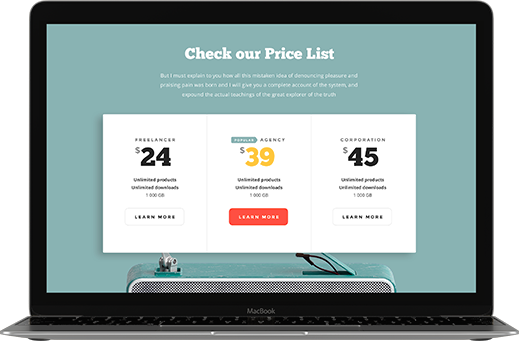
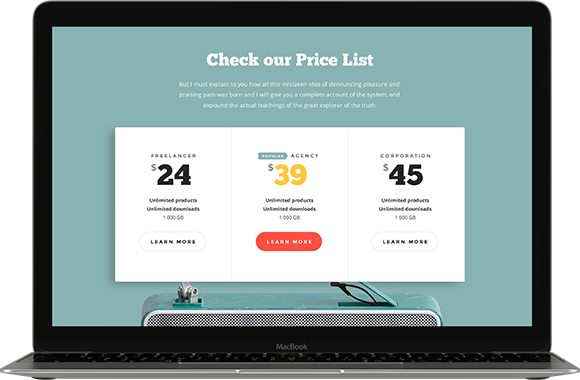
+fonts + css for more sections

diff --git a/src/less/index.less b/src/less/index.less
@@ -1,3 +1,20 @@
+@font-face {
+	font-family: 'Nissan Brand';
+	src: url('../fonts/NissanBrand-Regular.ttf') format('truetype');
+}
+
+@font-face {
+	font-family: 'Nissan Brand';
+	font-weight: 700;
+	src: url('../fonts/NissanBrand-Bold.ttf') format('truetype');
+}
+
+@font-face {
+	font-family: 'Nissan Brand - Bold';
+	font-weight: 700;
+	src: url('../fonts/NissanBrand-Bold.ttf') format('truetype');
+}
+
 @xl: ~'(max-width: 1200px)';
 @lg: ~'(max-width: 992px)';
 @md: ~'(max-width: 768px)';
@@ -27,10 +44,8 @@
 	flex-direction: column;
 }
 
-*::before,
-*::after {
-	// fixed css min
-	// all: unset;
+::before,
+::after {
 	box-sizing: border-box;
 }
 
@@ -55,7 +70,7 @@ button,
 p,
 span {
 	display: inline-block;
-	hyphens: auto;
+	// hyphens: auto;
 }
 
 main {
@@ -104,6 +119,7 @@ body > header {
 				
 				&::after {
 					content: '•';
+					color: #4591da;
 					padding-right: 14rem;
 					padding-left: 14rem;
 				}
@@ -139,7 +155,7 @@ h2 {
 h3 {
 	color: #343e46;
 	font-family: "Nissan Brand";
-	font-size: 30rem;
+	font-size: 29rem;
 	font-weight: 700;
 	text-transform: uppercase;
 	margin-bottom: 35rem;
@@ -148,15 +164,16 @@ h3 {
 .btn {
 	max-width: 390rem;
 	width: 100%;
-	// align-self: flex-start;
 	align-items: center;
 	text-align: center;
 	justify-content: center;
 	padding: 25rem;
+	border-radius: 10px;
+	
 	color: white;
 	font-size: 20rem;
+	font-weight: 700;
 	text-transform: uppercase;
-	border-radius: 10px;
 	background-image: linear-gradient(to top, #b10028, #f00030);
 	box-shadow: 2px 2px 7px rgba(0, 0, 0, .35);
 	
@@ -175,9 +192,15 @@ section.top {
 	padding-top: 60rem;
 	padding-bottom: 80rem;
 	color: white;
+	
 	background-color: @bg;
 	background-image: url(../img/top.png);
 	background-size: cover;
+
+	p {
+		font-size: 24rem;
+		line-height: 1.5em;
+	}
 	
 	h2 {
 		align-self: flex-start;
@@ -243,9 +266,10 @@ blockquote {
 			flex-shrink: 0;
 		}
 		.description {
-			padding: 25rem;
+			padding: 30rem 20rem 20rem 30rem;
 			background-color: #ecf1f5;
 			font-size: 18rem;
+			flex-shrink: 1;
 			
 			p {
 				margin-bottom: 0;
@@ -334,6 +358,7 @@ ol {
 
 section.for {
 	padding-top: 80rem;
+	padding-bottom: 95rem;
 	
 	ul {
 		margin-bottom: 60rem;
@@ -355,11 +380,12 @@ section.for {
 
 .btn-2 {
 	.btn;
-	background: #0068e3;
+	background-image: linear-gradient(to top, rgba(#0867d7, 1), rgba(#0575fa, 1));
 	align-self: center;
 	
 	&:hover {
-		background: rgba(#1174e8, 0.91);
+		background-image: linear-gradient(to top, rgba(#0575fa, 1), rgba(#0867d7, 1));
+
 	}
 }
 
@@ -406,15 +432,34 @@ section.pricelist {
 	}
 }
 
-.features {
-	li {
-		margin-bottom: 15rem;
-		
+section.features {
+	padding-top: 100rem;
+	padding-bottom: 120rem;
+	background-color: #f1f1f3;
+
+	.block {
+		margin-bottom: 150rem;
 	}
-	li:nth-child(even) .item {
+
+	.video {
+		// box-shadow: 0 100px 150px -50px black;
+		filter: drop-shadow(-50px 150px 50px rgba(0,0,0,.2));
+	}
+	
+	li {
+		color: #0068e3;
+		margin-bottom: 15rem;
+
+		&:last-child .item {
+			text-decoration: underline;
+		}
+	}
+	
+	.blue.item {
 		color: white;
 		background-color: #095aba;
 	}
+	
 	.item {
 		height: 100%;
 		padding: 30rem;

diff --git a/src/index.html b/src/index.html
@@ -144,16 +144,18 @@
 		<section class='features'>
 			<div class='container'>
 				<div class='row'>
-					<div class='col-xl-6'>
-						<span>
+					<div class='block col-xl-6'>
+						<span	style='color: #343e46;font-family: &#34;Nissan Brand&#34;; font-size: 29rem; font-weight: 400; line-height: 35rem;margin-bottom: 50rem;'>
 							Трехмесячный <br /> практический курс
 						</span>
-						<span>On-line обучение.</span>
-						<span>Личный финансовый консультант</span>
+						<h2>
+							<span style='color: #0068e3;'>On-line обучение.</span>
+							Личный финансовый консультант
+						</h2>
 						<a href='' class='btn'>Получить доступ</a>
 					</div>
 					
-					<div class='col-xl-6'>
+					<div class='block video col-xl-6'>
 						<img src='' alt='img' />
 					</div>
 				</div>
@@ -168,7 +170,7 @@
 						</div>
 					</li>
 					<li class='col-xl-3 col-lg-4 col-md-6'>
-						<div class='item'>
+						<div class='item blue'>
 							<img src='img/f2.png' alt='icon' />
 							Презентации
 							для проведения
@@ -183,7 +185,7 @@
 						</div>
 					</li>
 					<li class='col-xl-3 col-lg-4 col-md-6'>
-						<div class='item'>
+						<div class='item blue'>
 							<img src='img/f4.png' alt='icon' />
 							Описания всех
 							финансовых
@@ -191,7 +193,7 @@
 						</div>
 					</li>
 					<li class='col-xl-3 col-lg-4 col-md-6'>
-						<div class='item'>
+						<div class='item blue'>
 							<img src='img/f5.png' alt='icon' />
 							Видео записи
 							всех оnline -
@@ -208,19 +210,18 @@
 					</li>
 					
 					<li class='col-xl-3 col-lg-4 col-md-6'>
-						<div class='item'>
+						<div class='item blue'>
 							<img src='img/f7.png' alt='icon' />
 							Доступ в закрытый
 							чат сообщества
-							фин.консультантов
+							финансовых консультантов
 						</div>
 					</li>
 					<li class='col-xl-3 col-lg-4 col-md-6'>
 						<div class='item'>
 							<img src='img/f8.png' alt='icon' />
-							Презентации
-							для проведения
-							семинаров
+							Международные
+							сертификаты
 						</div>
 					</li>
 				</ul>
